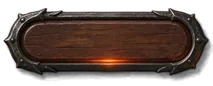
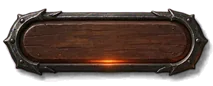
Кнопки: текст по центру плашки, при наведении кнопка не прыгает
Состояния кнопки выравниваются по плотной части плашки (без свечения),
края рамки у всех состояний общие. Текст на «таблетке» поднят на 2 px
и сдвинут на 1 px вправо — по деревянной середине, а не по центру картинки.

diff --git a/src/ui/kit.css b/src/ui/kit.css
@@ -31,42 +31,45 @@
   --ui-bar-w: 0.5px 32px 0.5px 32px;
   --ui-tab: url('./tab.webp');
   --ui-tab-size: 111px 48px;
-  --ui-tab-slice: 38 63 38 63;
-  --ui-tab-w: 19px 31.5px 19px 31.5px;
+  --ui-tab-shift: -0.2px;
+  --ui-tab-slice: 40 63 40 63;
+  --ui-tab-w: 20px 31.5px 20px 31.5px;
   --ui-tab-active: url('./tab-active.webp');
   --ui-tab-active-size: 111px 48px;
-  --ui-tab-active-slice: 38 62 38 62;
-  --ui-tab-active-w: 19px 31px 19px 31px;
+  --ui-tab-active-slice: 40 63 40 63;
+  --ui-tab-active-w: 20px 31.5px 20px 31.5px;
   --ui-clock: url('./clock.webp');
   --ui-clock-size: 79px 37px;
   --ui-clock-slice: 25 29 25 29;
   --ui-clock-w: 12.5px 14.5px 12.5px 14.5px;
   --ui-pill: url('./pill.webp');
   --ui-pill-size: 106.5px 43px;
-  --ui-pill-slice: 8 49 8 49;
-  --ui-pill-w: 4px 24.5px 4px 24.5px;
+  --ui-pill-shift: 0.4px;
+  --ui-pill-slice: 9 49 9 49;
+  --ui-pill-w: 4.5px 24.5px 4.5px 24.5px;
   --ui-pill-hover: url('./pill-hover.webp');
   --ui-pill-hover-size: 106.5px 43px;
-  --ui-pill-hover-slice: 5 50 5 50;
-  --ui-pill-hover-w: 2.5px 25px 2.5px 25px;
+  --ui-pill-hover-slice: 9 49 9 49;
+  --ui-pill-hover-w: 4.5px 24.5px 4.5px 24.5px;
   --ui-pill-pressed: url('./pill-pressed.webp');
   --ui-pill-pressed-size: 106.5px 43px;
-  --ui-pill-pressed-slice: 8 51 8 51;
-  --ui-pill-pressed-w: 4px 25.5px 4px 25.5px;
+  --ui-pill-pressed-slice: 9 49 9 49;
+  --ui-pill-pressed-w: 4.5px 24.5px 4.5px 24.5px;
   --ui-pill-disabled: url('./pill-disabled.webp');
   --ui-pill-disabled-size: 106.5px 43px;
-  --ui-pill-disabled-slice: 8 49 8 49;
-  --ui-pill-disabled-w: 4px 24.5px 4px 24.5px;
+  --ui-pill-disabled-slice: 9 49 9 49;
+  --ui-pill-disabled-w: 4.5px 24.5px 4.5px 24.5px;
   --ui-pill-on: url('./pill-on.webp');
   --ui-pill-on-size: 106.5px 43px;
-  --ui-pill-on-slice: 1 46 1 46;
-  --ui-pill-on-w: 0.5px 23px 0.5px 23px;
+  --ui-pill-on-slice: 9 49 9 49;
+  --ui-pill-on-w: 4.5px 24.5px 4.5px 24.5px;
   --ui-pill-off: url('./pill-off.webp');
   --ui-pill-off-size: 106.5px 43px;
-  --ui-pill-off-slice: 8 51 8 51;
-  --ui-pill-off-w: 4px 25.5px 4px 25.5px;
+  --ui-pill-off-slice: 9 49 9 49;
+  --ui-pill-off-w: 4.5px 24.5px 4.5px 24.5px;
   --ui-round: url('./round.webp');
   --ui-round-size: 44.5px 44px;
+  --ui-round-shift: -0.1px;
   --ui-round-hover: url('./round-hover.webp');
   --ui-round-hover-size: 44.5px 44px;
   --ui-round-pressed: url('./round-pressed.webp');
@@ -75,6 +78,7 @@
   --ui-round-disabled-size: 44.5px 44px;
   --ui-close: url('./close.webp');
   --ui-close-size: 32px 31.5px;
+  --ui-close-shift: 0px;
   --ui-close-hover: url('./close-hover.webp');
   --ui-close-hover-size: 32px 31.5px;
   --ui-close-pressed: url('./close-pressed.webp');
@@ -97,6 +101,7 @@
   --ui-skull-size: 21px 26px;
   --ui-portrait-frame: url('./portrait-frame.webp');
   --ui-portrait-frame-size: 98.5px 98.5px;
+  --ui-portrait-shift: 3.1px;
   --ui-portrait-frame-selected: url('./portrait-frame-selected.webp');
   --ui-portrait-frame-selected-size: 98.5px 98.5px;
   --ui-bone-ring: url('./bone-ring.webp');

diff --git a/src/kit-preview.css b/src/kit-preview.css
@@ -140,10 +140,17 @@ p { margin: 6px 0; font-size: 14px; }
 
 /* ---------- кнопки ---------- */
 button { font: inherit; letter-spacing: inherit; cursor: pointer; }
+/* Текст — по центру деревянной середины плашки, а не всей картинки: под плашкой в картинке
+   место для свечения, середина выше центра на ~1 px и правее на ~1 px; и строчные буквы
+   без заглавных выглядят ниже середины строки. Поэтому текст поднят на 2 px и сдвинут на 1 px. */
 .pill {
+  display: inline-flex;
+  align-items: center;
+  justify-content: center;
   height: 43px;
   min-width: 120px;
-  padding: 0 34px;
+  padding: 0 33px 4px 35px;
+  line-height: 1;
   background: none;
   color: #f0dcbc;
   font-size: 15px;
